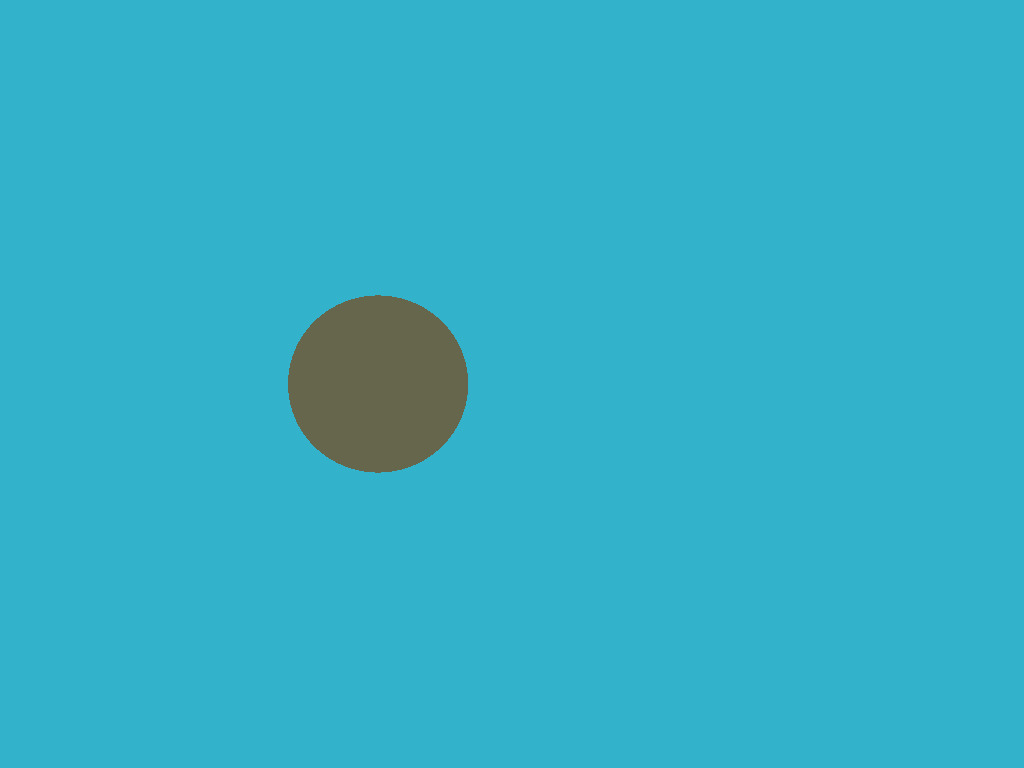
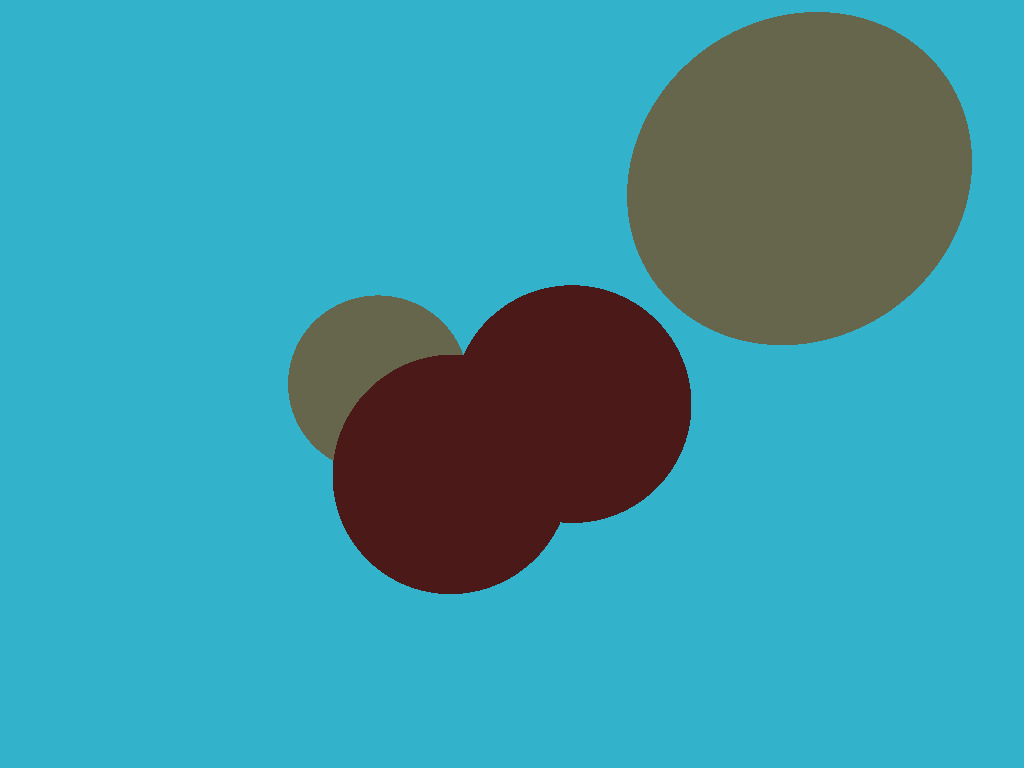
adding more spheres to the scene; rudimentary materials

Changed region(s): [[0.3125, 0.0, 0.9688, 0.7812]]

diff --git a/tinyraytracer.cpp b/tinyraytracer.cpp
@@ -5,11 +5,18 @@
 #include <vector>
 #include "geometry.h"
 
+struct Material {
+    Material(const Vec3f &color) : diffuse_color(color) {}
+    Material() : diffuse_color() {}
+    Vec3f diffuse_color;
+};
+
 struct Sphere {
     Vec3f center;
     float radius;
+    Material material;
 
-    Sphere(const Vec3f &c, const float &r) : center(c), radius(r) {}
+    Sphere(const Vec3f &c, const float &r, const Material &m) : center(c), radius(r), material(m) {}
 
     bool ray_intersect(const Vec3f &orig, const Vec3f &dir, float &t0) const {
         Vec3f L = center - orig;
@@ -25,16 +32,32 @@ struct Sphere {
     }
 };
 
-Vec3f cast_ray(const Vec3f &orig, const Vec3f &dir, const Sphere &sphere) {
-    float sphere_dist = std::numeric_limits<float>::max();
-    if (!sphere.ray_intersect(orig, dir, sphere_dist)) {
+bool scene_intersect(const Vec3f &orig, const Vec3f &dir, const std::vector<Sphere> &spheres, Vec3f &hit, Vec3f &N, Material &material) {
+    float spheres_dist = std::numeric_limits<float>::max();
+    for (size_t i=0; i < spheres.size(); i++) {
+        float dist_i;
+        if (spheres[i].ray_intersect(orig, dir, dist_i) && dist_i < spheres_dist) {
+            spheres_dist = dist_i;
+            hit = orig + dir*dist_i;
+            N = (hit - spheres[i].center).normalize();
+            material = spheres[i].material;
+        }
+    }
+    return spheres_dist<1000;
+}
+
+Vec3f cast_ray(const Vec3f &orig, const Vec3f &dir, const std::vector<Sphere> &spheres) {
+    Vec3f point, N;
+    Material material;
+
+    if (!scene_intersect(orig, dir, spheres, point, N, material)) {
         return Vec3f(0.2, 0.7, 0.8); // background color
     }
 
-    return Vec3f(0.4, 0.4, 0.3);
+    return material.diffuse_color;
 }
 
-void render(const Sphere &sphere) {
+void render(const std::vector<Sphere> &spheres) {
     const int width    = 1024;
     const int height   = 768;
     const int fov      = M_PI/2.;
@@ -46,7 +69,7 @@ void render(const Sphere &sphere) {
             float x =  (2*(i + 0.5)/(float)width  - 1)*tan(fov/2.)*width/(float)height;
             float y = -(2*(j + 0.5)/(float)height - 1)*tan(fov/2.);
             Vec3f dir = Vec3f(x, y, -1).normalize();
-            framebuffer[i+j*width] = cast_ray(Vec3f(0,0,0), dir, sphere);
+            framebuffer[i+j*width] = cast_ray(Vec3f(0,0,0), dir, spheres);
         }
     }
 
@@ -62,8 +85,16 @@ void render(const Sphere &sphere) {
 }
 
 int main() {
-    Sphere sphere(Vec3f(-3, 0, -16), 2);
-    render(sphere);
+    Material      ivory(Vec3f(0.4, 0.4, 0.3));
+    Material red_rubber(Vec3f(0.3, 0.1, 0.1));
+
+    std::vector<Sphere> spheres;
+    spheres.push_back(Sphere(Vec3f(-3,    0,   -16), 2,      ivory));
+    spheres.push_back(Sphere(Vec3f(-1.0, -1.5, -12), 2, red_rubber));
+    spheres.push_back(Sphere(Vec3f( 1.5, -0.5, -18), 3, red_rubber));
+    spheres.push_back(Sphere(Vec3f( 7,    5,   -18), 4,      ivory));
+
+    render(spheres);
 
     return 0;
 }
